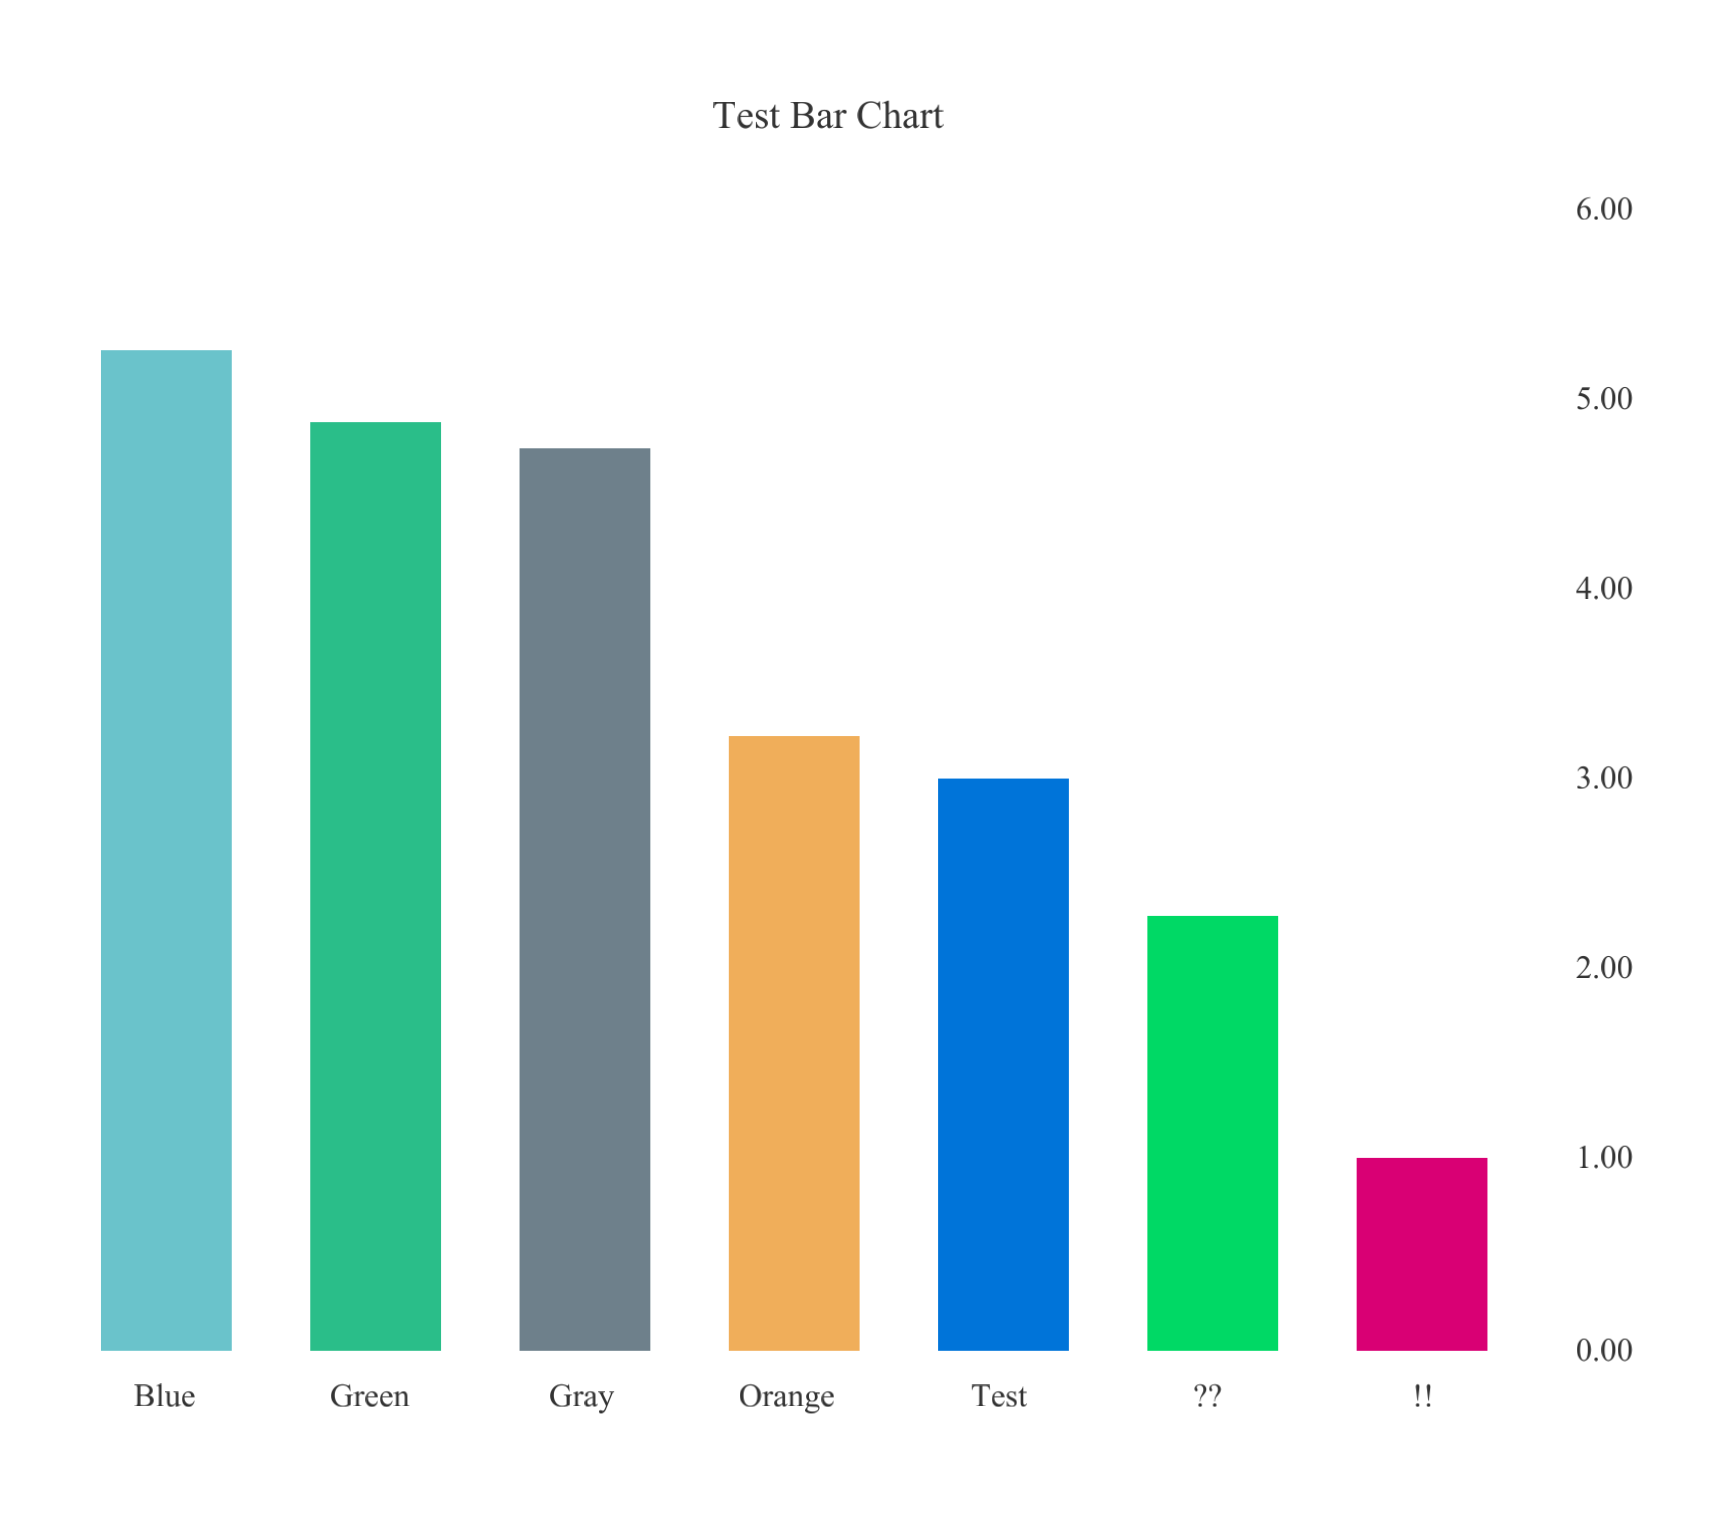
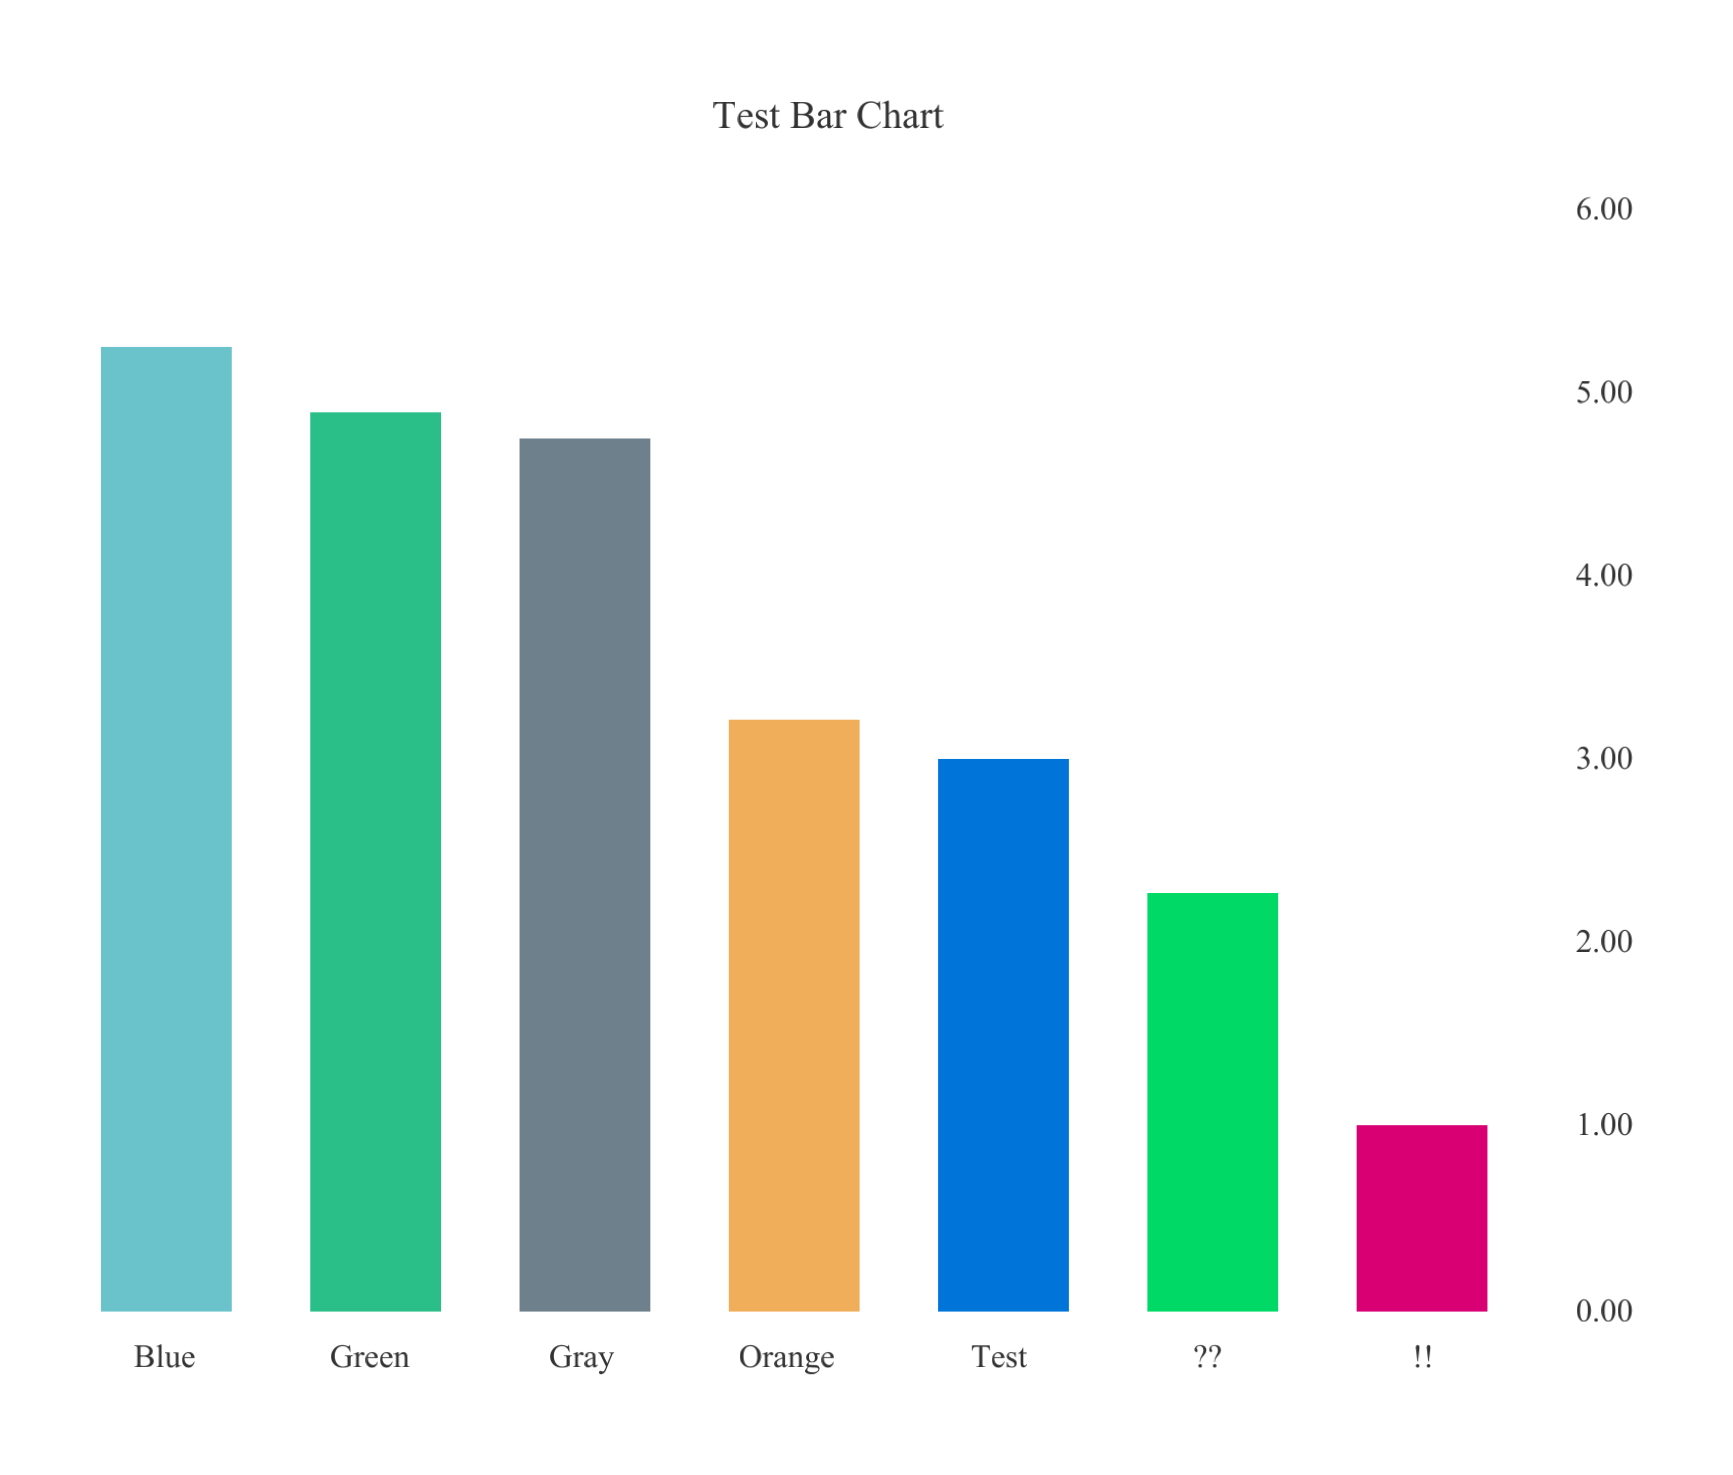
fix bar chart margin calculation

diff --git a/bar_chart.go b/bar_chart.go
@@ -439,7 +439,7 @@ func (bc *BarChart) getAdjustedCanvasBox(r render.Renderer, canvasBox render.Box
 			Top:    canvasBox.Top,
 			Left:   canvasBox.Left,
 			Right:  canvasBox.Left + totalWidth,
-			Bottom: bc.Height() - xaxisHeight,
+			Bottom: canvasBox.Bottom + defaultXAxisMargin + xaxisHeight,
 		}
 
 		axesOuterBox = axesOuterBox.Grow(xbox)
